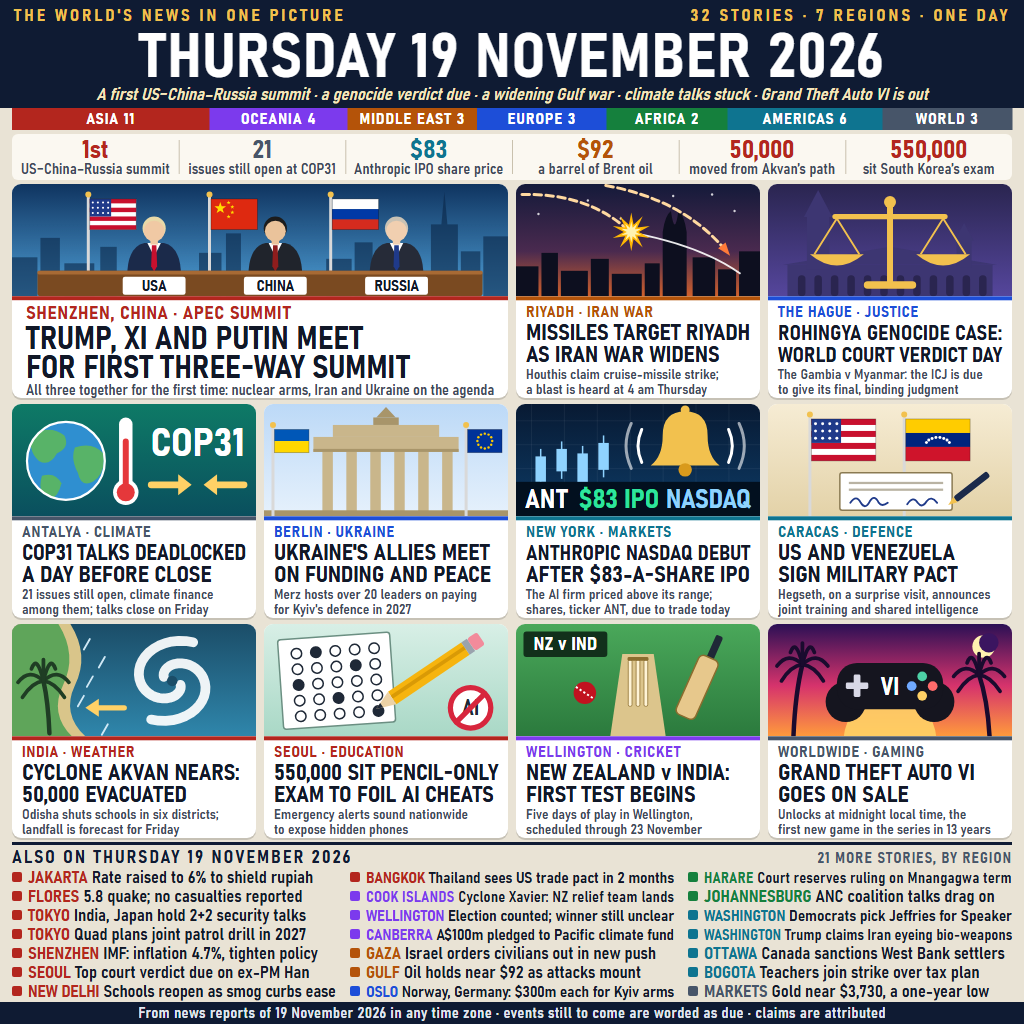
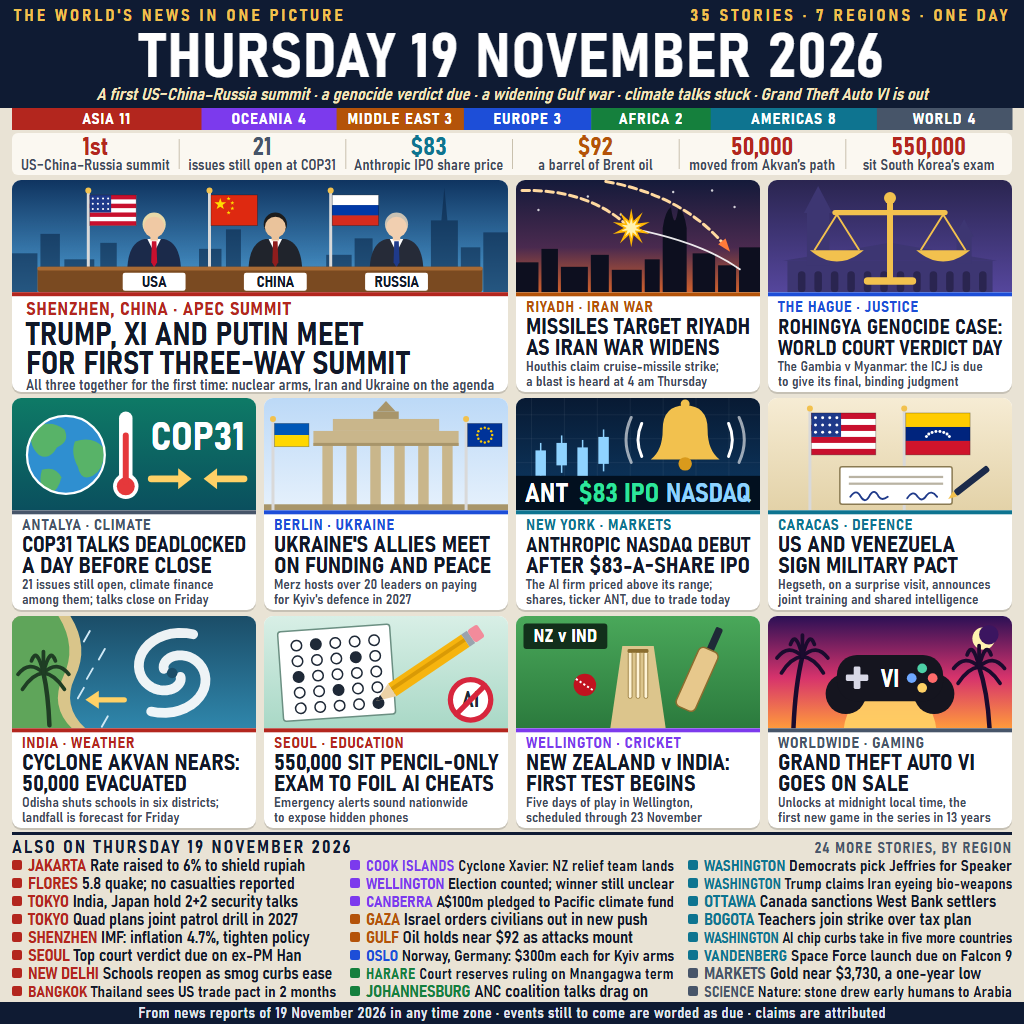
35 stories: add science, technology and space briefs

diff --git a/README.md b/README.md
@@ -4,7 +4,7 @@
 [![rank](https://make.fun/badge/news-image-20261119/BrotherMus/world-news-2026-11-19/rank.svg)](https://make.fun/bounty/news-image-20261119/leaderboard?utm_source=github&utm_medium=readme&utm_campaign=news-image-20261119)
 [![reward](https://make.fun/badge/news-image-20261119/BrotherMus/world-news-2026-11-19/reward.svg)](https://make.fun/bounty/news-image-20261119?utm_source=github&utm_medium=readme&utm_campaign=news-image-20261119)
 
-One picture of the world's news of Thursday 19 November 2026: a front page of 32 stories from seven regions. Eleven are drawn as small flat illustrations with a headline and a line of explanation, and 21 more run as one-line briefs. The program writes that picture, a 1024 by 1024 PNG, to the output folder.
+One picture of the world's news of Thursday 19 November 2026: a front page of 35 stories from seven regions. Eleven are drawn as small flat illustrations with a headline and a line of explanation, and 24 more run as one-line briefs. The program writes that picture, a 1024 by 1024 PNG, to the output folder.
 
 ![The world's news of Thursday 19 November 2026 in one picture](entry.png)
 
@@ -20,7 +20,7 @@ mkdir -p out && MAKEFUN_OUTPUT_DIR=out node main.ts
 - The coloured bar counts the stories by region; the same colours mark every card and brief.
 - Six figures give the day in numbers.
 - The lead and ten cards each pair a drawing with a place, a field, a two-line headline and a short explanation.
-- The briefs at the foot add 21 more stories, grouped by region.
+- The briefs at the foot add 24 more stories, grouped by region.
 
 ## The illustrated stories
 
@@ -38,7 +38,7 @@ mkdir -p out && MAKEFUN_OUTPUT_DIR=out node main.ts
 | Wellington | Cricket | The first Test between New Zealand and India begins |
 | Worldwide | Gaming | Grand Theft Auto VI goes on sale at midnight local time around the world |
 
-The briefs cover Jakarta, Flores, Tokyo, Shenzhen, Seoul, New Delhi, Bangkok, the Cook Islands, Wellington, Canberra, Gaza, the Gulf, Oslo, Harare, Johannesburg, Washington, Ottawa, Bogotá and the gold market.
+The briefs cover Jakarta, Flores, Tokyo, Shenzhen, Seoul, New Delhi, Bangkok, the Cook Islands, Wellington, Canberra, Gaza, the Gulf, Oslo, Harare, Johannesburg, Washington, Ottawa, Bogotá, a Space Force launch from Vandenberg, the gold market and a study in Nature.
 
 ## What counts as the day
 
@@ -61,6 +61,7 @@ The day's news is what happened, or was first reported, on 19 November in any ti
 - India briefs: [Careerindia](https://www.careerindia.com/news/school-assembly-news-headlines-today-november-19-2026-national-international-education-sports-068849.html)
 - Africa: [allAfrica on Zimbabwe](https://allafrica.com/stories/202611190059.html), [allAfrica on South Africa](https://allafrica.com/stories/202611180078.html)
 - Washington: [PBS News](https://pbs.org/newshour/show/news-wrap-democrats-nominate-hakeem-jeffries-for-speaker-of-the-house); Colombia: [The Rio Times](https://riotimesonline.com/latin-american-pulse-for-wednesday-november-18-2026)
+- AI chip export rule: [TechCrunch](https://techcrunch.com/2026/11/16/us-tightens-ai-chip-export-controls-to-deter-chinese-companies-from-accessing-compute-remotely/); launch schedule: [RocketLaunch.org](https://rocketlaunch.org/launch-schedule/spacex); science: [Nature, 19 November 2026 issue](https://www.nature.com/nature/volumes/659/issues/8141)
 - Oil and gold: [investingLive](https://investinglive.com/news/investinglive-asia-pacific-market-news-oil-holds-near-92-as-gulf-attacks-mount/)
 
 ## How the picture is made
